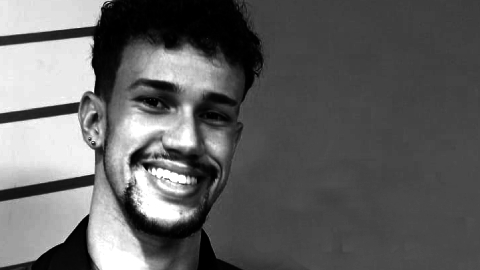
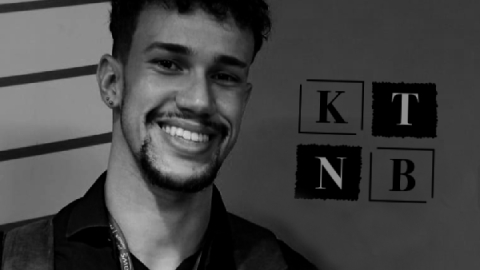
mobile fixes, text and rafael included

diff --git a/index.html b/index.html
@@ -127,8 +127,7 @@ gtag('config', 'G-K3L51S041R');*/
 							<p class="default-text hero-text-fade-up hero-description">
 								Um time especializado em tornar grandes ideias em projetos de sucesso.
 								<br /><br />
-								<i>Criatividade, estratégia e ousadia</i> são a nossa fórmula para alavancar os seus
-								negócios.
+								<i>Criatividade, estratégia e ousadia</i>.
 							</p>
 						</div>
 					</div>
@@ -144,10 +143,12 @@ gtag('config', 'G-K3L51S041R');*/
 					<div class="col-xs-12">
 						<div class="text-center">
 							<h1>
-								<span class="fade-up main-text" style="transition-delay: 0.8s;">Clientes são a essência
+								<span class="fade-up main-text" style="transition-delay: 0.8s;">Clientes são a
+									<span class="white-badge">essência</span>
 									do seu négocio;</span>
 								<br />
-								<span class="fade-up main-text" style="transition-delay: 1.2s;">a razão da sua marca
+								<span class="fade-up main-text" style="transition-delay: 1.2s;">a razão da sua
+									<span class="white-badge">marca</span>
 									existir.</span>
 							</h1>
 						</div>
@@ -193,15 +194,13 @@ gtag('config', 'G-K3L51S041R');*/
 								PREMISSA
 							</h1>
 							<p class="default-text fade-up" style="transition-delay: 0.8s;">
-								Valor, impacto, conexões e resultados.
+								Com foco em criar valor entre seu negócio
+								e clientes: do estratégico ao operacional,
+								geramos resultados de ponta a ponta.
 								<br /><br />
-								Desenvolvemos integrações e automações digitais
-								de acordo com seu modelo de negócio, vendendo
+								Desensenvolvemos soluções e inovações de
+								acordo com seu modelo de negócio vendendo
 								online no piloto automático 24 horas por dia.
-								<br /><br />
-								Como especialistas em marketing nosso foco é
-								criar valor na relação entre seu negócio e
-								seus clientes, nutrindo uma relação sólida e recorrente.
 							</p>
 
 						</div>
@@ -232,7 +231,7 @@ gtag('config', 'G-K3L51S041R');*/
 								aproximamos e fidelizamos os potenciais clientes
 								dos seus produtos e serviços com as mais populares ferramentas online.
 								<br /><br />
-								<span class="white-badge"> — Vendemos conversões e sucesso</span>
+								<span class="white-badge"> — Vendemos resultados.</span>
 
 							</p>
 						</div>
@@ -417,7 +416,7 @@ gtag('config', 'G-K3L51S041R');*/
 										Rafael <br />Sandes
 									</h2>
 									<p class="team-member-desc">
-										Account Manager
+										Account Manager | Business Strategist
 									</p>
 									<p class="social">
 										<a href="https://www.linkedin.com/in/rafael-sandes/" target="_blank"
@@ -495,12 +494,11 @@ gtag('config', 'G-K3L51S041R');*/
 								KTNB
 							</h2>
 							<p class="section-desc-text mb-2">
-								Somos uma agência atuando na região metropolitana
-								de São Paulo e interior, Peru, Canadá e Estados Unidos.
+								Somos uma consultoria atuando no estado de São Paulo, Peru, Canadá e Estados Unidos.
 							</p>
 							<p class="section-desc-text">
-								Nossa visão é tornar grandes ideias em projetos de sucesso,
-								conectar negócios a clientes criando valor com foco em
+								Tornamos ideias em projetos de sucesso,
+								conectando negócios a clientes criando valor, com foco em
 								alta performance online.
 							</p>
 						</div>

diff --git a/src/scss/team.scss b/src/scss/team.scss
@@ -35,7 +35,7 @@
 
     .team-member-desc {
         text-align: left;
-        font-size: 16px;
+        font-size: 12px;
         font-family: 'Merriweather';
         margin-bottom: 16px;
         min-height: 50px;
@@ -45,30 +45,55 @@
         text-align: left;
 
         .sn-logo {
-            width: 40px;
+            width: 32px;
         }
     }
 
-    @media screen and (max-width: 1366px) {
+    @media screen and (max-width: 1400px) {
+        .team-member-name {
+            font-size: 22px;
+        }
+    }
+
+    @media screen and (max-width: 1365px) {
 
         .section-title {
             margin-bottom: 30px;
         }
 
         .team-member-name {
-            font-size: 20px;
+            font-size: 16px;
+            padding: 4px 8px;
         }
 
+        .team-member-desc {
+            font-size: 12px;
+            margin-bottom: 12px;
+            min-height: 60px;
+        }
+    }
 
+
+
+    @media screen and (max-width: 991px) {
+
+        .section-title {
+        }
+
+        .team-member-name {
+            font-size: 12px;
+            padding: 2px 4px;
+        }
 
         .team-member-desc {
-            font-size: 14px;
-            margin-bottom: 12px;
-            min-height: 36px;
         }
     }
 
     @media screen and (max-width: 767px) {
+        .section-title {
+            margin-bottom: 16px;
+        }
+
         .container {
             width: 100%;
         }

diff --git a/src/scss/presentations.scss b/src/scss/presentations.scss
@@ -14,6 +14,12 @@
 
     @media screen and (max-width: 767px) {
         &.home-presentation-1 {
+            .white-badge {
+                background-color: transparent;
+                color: white;
+                padding: 0;
+                margin: 0;
+            }
             .main-text {
                 font-size: 36px;
                 margin-bottom: 60px;
@@ -21,8 +27,11 @@
         }
 
         &.home-presentation-2 {
+
             .main-text {
                 font-size: 36px;
+                display: inline-block;
+                margin: 10px auto;
             }
         }
     }

diff --git a/src/scss/footer.scss b/src/scss/footer.scss
@@ -48,8 +48,8 @@
 
     @media screen and (max-width: 767px) {
         .section-title {
-            font-size: 32px;
-            margin-bottom: 10px;
+            font-size: 24px;
+            margin-bottom: 8px;
         }
 
         .section-desc-text {
@@ -61,7 +61,7 @@
         }
 
         .ktnb-col, .contact-col {
-            margin-bottom: 24px;
+            margin-bottom: 18px;
         }
     }
 }

diff --git a/src/scss/base.scss b/src/scss/base.scss
@@ -25,7 +25,7 @@ html {
     text-transform: uppercase;
     font-size: 54px;
     font-weight: bold;
-    margin-bottom: 60px;
+    margin-bottom: 32px;
     font-family: 'Oswald';
 }
 
